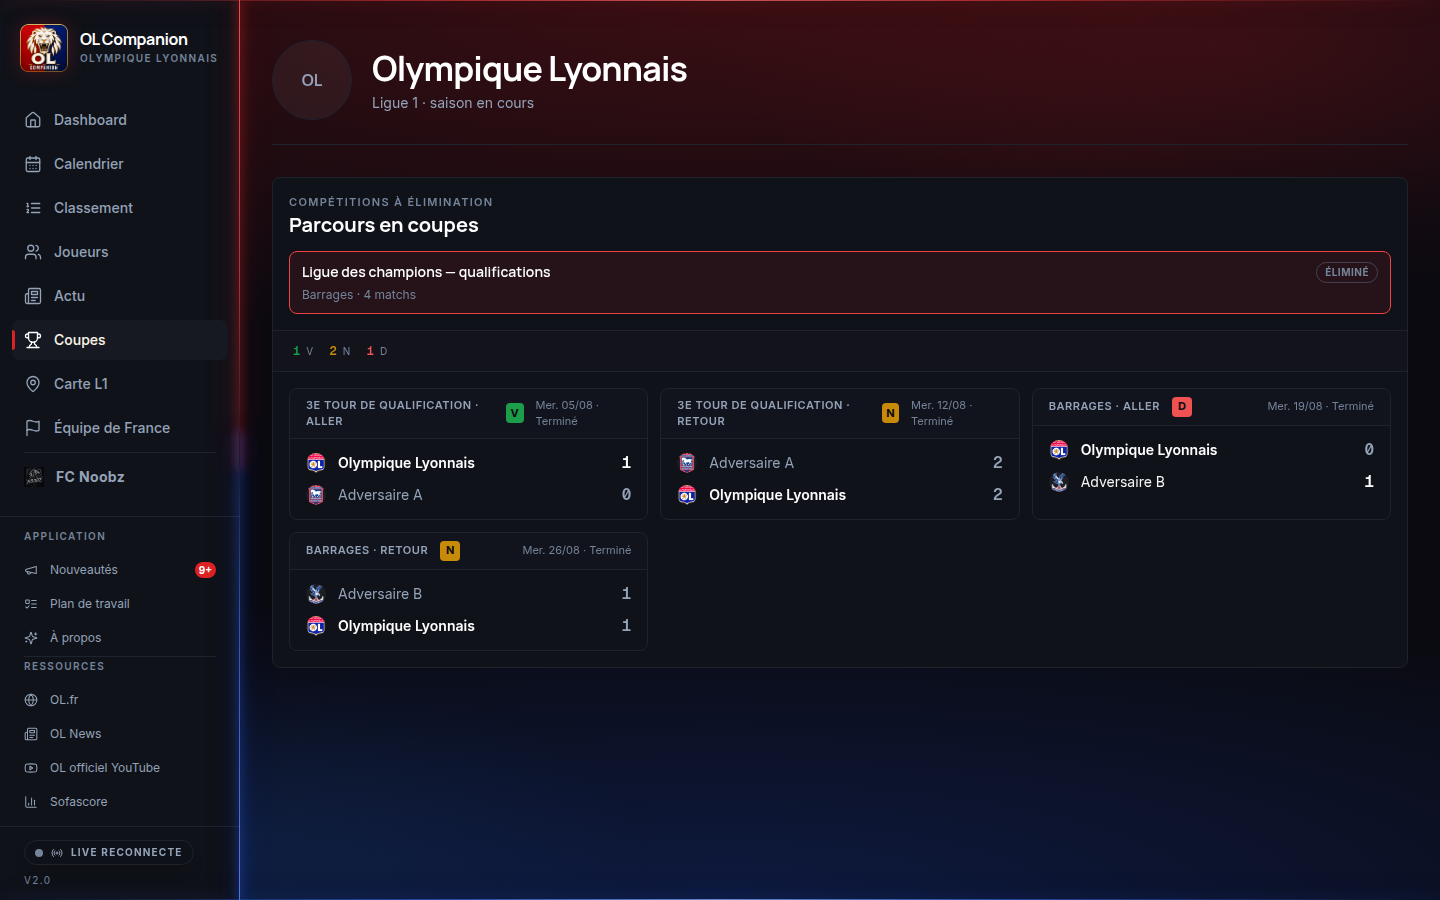
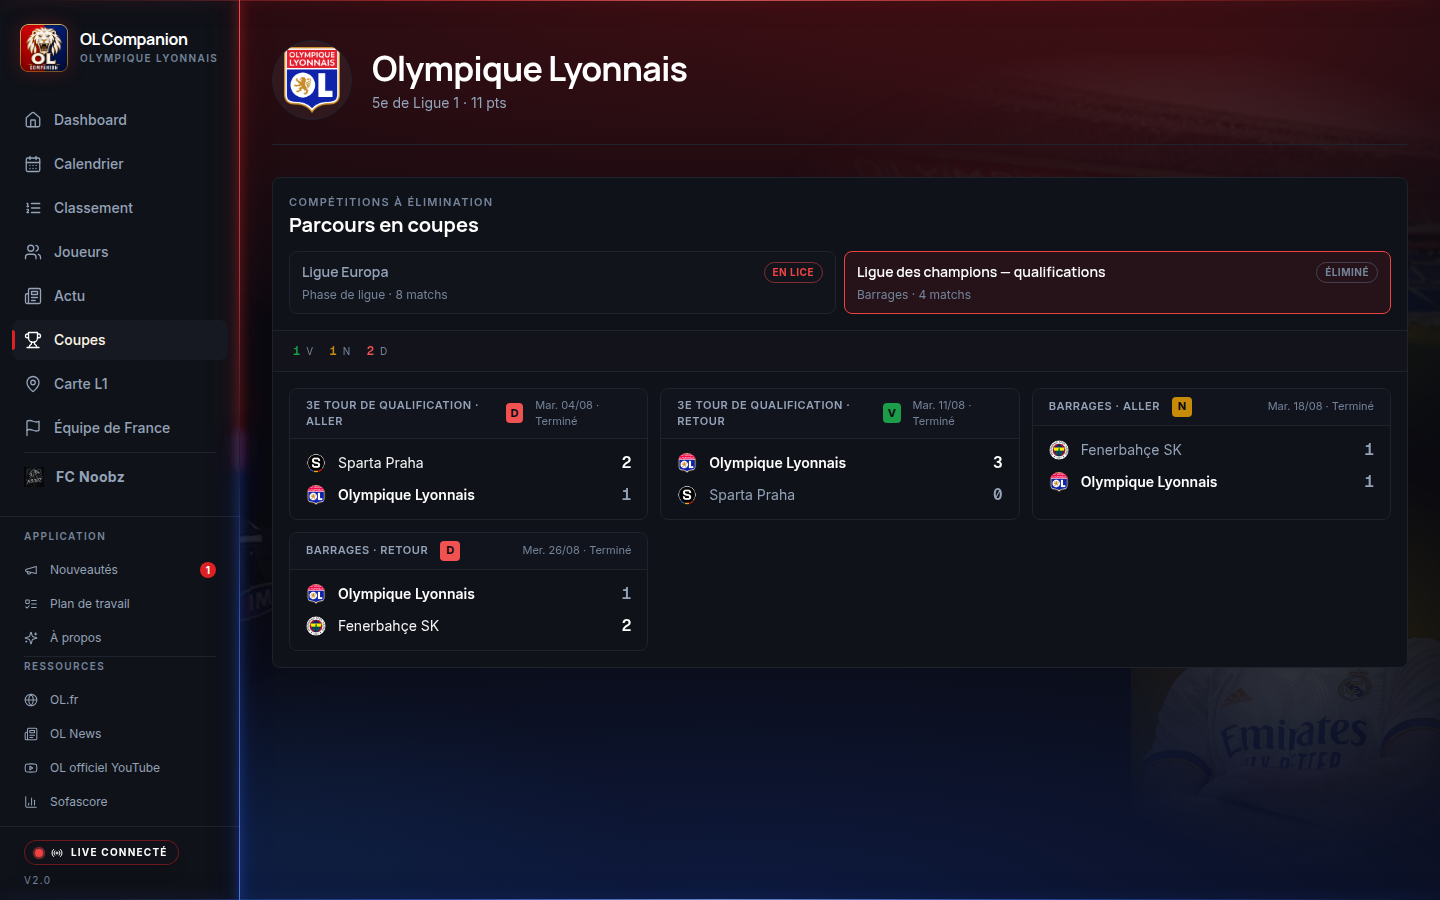
fix(L174): capture Nouveautés avec les vrais résultats (Sparta Prague, Fenerbahçe), texte alternatif sans « illustration »

diff --git a/docs/nouveautes/2026-10-18-coupes-les-matchs-de-qualification-en-ligue-des-champions.md b/docs/nouveautes/2026-10-18-coupes-les-matchs-de-qualification-en-ligue-des-champions.md
@@ -3,7 +3,7 @@ title: "Coupes : les matchs de qualification en Ligue des champions"
 date: 2026-10-18
 created: 2026-10-18T08:58+02:00
 lots: [L174]
-captures: [{ file: captures/L174-coupes-qualifications.png, alt: "Page Coupes : l'onglet « Ligue des champions — qualifications », statut Éliminé, avec les quatre matchs du 3ᵉ tour de qualification et des barrages, leur manche et leur score (données d'illustration)" }]
+captures: [{ file: captures/L174-coupes-qualifications.png, alt: "Page Coupes : l'onglet « Ligue des champions — qualifications », statut Éliminé, avec les quatre matchs du 3ᵉ tour de qualification et des barrages, leur manche et leur score, face au Sparta Prague et à Fenerbahçe" }]
 # une capture peut dire ce qu'elle montre : captures: [{ file: captures/x.png, alt: "texte alternatif" }]
 # nocapture: raison, quand une capture n'a pas de sens
 ---
